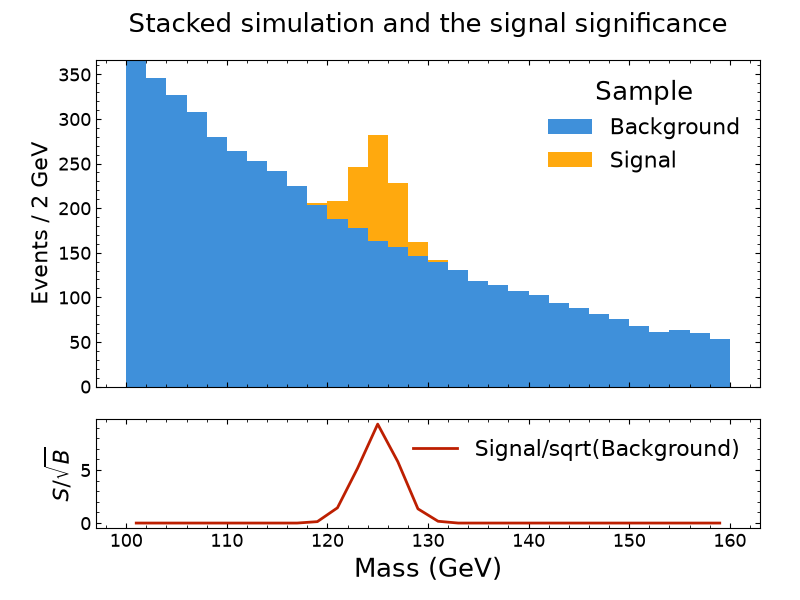
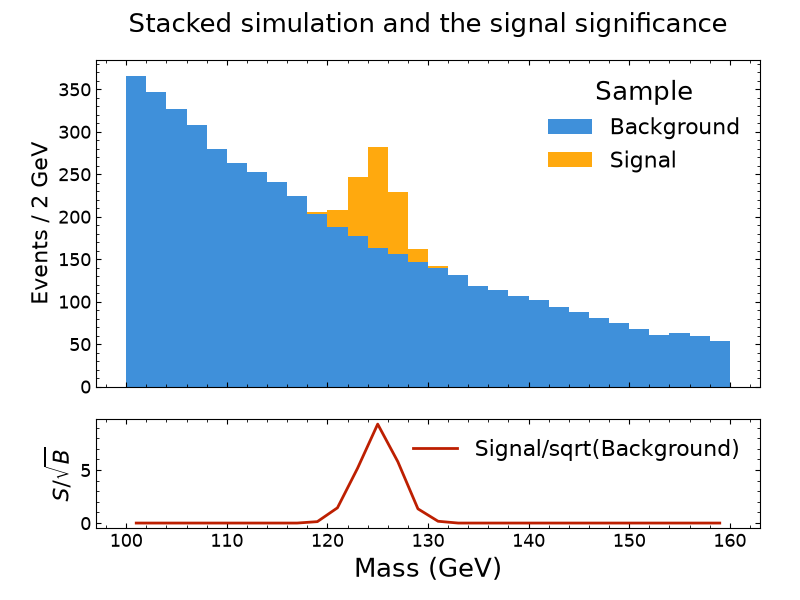
Stacked series as filled histograms; cat bar legends
- line --stacked over binned x draws filled histograms (bars with
  --bar_width or --plot_type bar, and over categories); the stacked legend
  is no longer pinned to the upper left, where a falling stack is tallest
- cat --kind bar: patch legend handles (opacity per --style value), error
  bars with --errory, legend placed clear of the data unless --legend_loc
- examples and docs: the S/sqrt(B) example no longer needs --bar_width auto

diff --git a/src/plotipus/kinds/cat.py b/src/plotipus/kinds/cat.py
@@ -11,6 +11,7 @@ by lines (line), bare points (point) or dodged bars (bar).
 """
 
 import matplotlib.lines as mlines
+import matplotlib.patches as mpatches
 import numpy as np
 from rich import print as rprint
 
@@ -20,7 +21,7 @@ from ..encodings import LINESTYLES
 from ..io import import_data, prepare_import
 from ..palettes import ColorAllocator
 from ..panels import add_title_and_note, create_panels, draw_horizontal_overlay, save
-from ..plot import apply_legend_style, plot_data
+from ..plot import apply_legend_style, apply_legend_style_clear_of_data, plot_data
 from ..selection import filter_dataframe
 from . import _base
 
@@ -123,8 +124,11 @@ def draw_figure(rows, args, kdx, comparable):
         # Hue values past the palette repeat a colour but keep their own marker.
         color = colors.color_for(hue)
         marker = MARKERS[idx % len(MARKERS)]
-        hue_handles.append(mlines.Line2D([], [], color=color, linestyle="-", marker=marker,
-                                         label=map_iterable_label(hue, args.iterable, args.iterable_mapping)))
+        hue_label = map_iterable_label(hue, args.iterable, args.iterable_mapping)
+        if args.kind == "bar":
+            hue_handles.append(mpatches.Patch(facecolor=color, alpha=0.9, label=hue_label))
+        else:
+            hue_handles.append(mlines.Line2D([], [], color=color, linestyle="-", marker=marker, label=hue_label))
         for cdx, value in enumerate(comparables):
             subset = rows[rows[args.iterable] == hue]
             if value is not None:
@@ -149,8 +153,9 @@ def draw_figure(rows, args, kdx, comparable):
                    + ", ".join(f"{categories[int(i)]}={v:.3g}" for i, v in zip(xs, ys)))
             if args.kind == "bar":
                 width = 0.8 / max(1, len(hues))
+                errors = np.nan_to_num(es) if args.errory and np.isfinite(es).any() else None
                 ax.bar(xs + (idx - (len(hues) - 1) / 2) * width, ys, width=width, color=color,
-                       alpha=0.9 if cdx == 0 else 0.5)
+                       alpha=0.9 if cdx == 0 else 0.5, yerr=errors, ecolor=style.role("ink"), capsize=3)
             else:
                 plot_type = "line" if args.kind == "line" else "scatter"
                 kwargs = {"marker": marker} if args.kind == "line" else {}
@@ -160,8 +165,13 @@ def draw_figure(rows, args, kdx, comparable):
                 else:
                     plot_data(args, ax, xs, y=ys, color=color, plot_type=plot_type, linestyle=linestyle, **kwargs)
             if value is not None and cdx >= len(style_handles):
-                style_handles.append(mlines.Line2D([], [], color=style.role("ink"), linestyle=linestyle,
-                                                   label=map_iterable_label(value, comparable, args.comparable_mapping)))
+                value_label = map_iterable_label(value, comparable, args.comparable_mapping)
+                if args.kind == "bar":  # bars tell --style values apart by opacity
+                    style_handles.append(mpatches.Patch(facecolor=style.role("ink"), alpha=0.9 if cdx == 0 else 0.5,
+                                                        label=value_label))
+                else:
+                    style_handles.append(mlines.Line2D([], [], color=style.role("ink"), linestyle=linestyle,
+                                                       label=value_label))
 
     ax.set_xticks(positions)
     ax.set_xticklabels([map_iterable_label(c, args.x, args.xtick_mapping) for c in categories],
@@ -188,7 +198,11 @@ def draw_figure(rows, args, kdx, comparable):
         title = args.comparable_title if args.comparable_title is not None else comparable
         handles.append(mlines.Line2D([], [], color="none", label=f"$\\bf{{{title}}}$" if title else ""))
         handles += style_handles
-    apply_legend_style(ax, handles=handles, capitalize_labels=args.capitalize_legend, loc=args.legend_loc or "lower left")
+    if args.legend_loc:
+        apply_legend_style(ax, handles=handles, capitalize_labels=args.capitalize_legend, loc=args.legend_loc)
+    else:
+        apply_legend_style_clear_of_data(ax, handles=handles, labels=[h.get_label() for h in handles],
+                                         capitalize_labels=args.capitalize_legend)
 
     add_title_and_note(fig, args)
     fig.subplots_adjust(bottom=0.22)

diff --git a/src/plotipus/kinds/line.py b/src/plotipus/kinds/line.py
@@ -183,7 +183,9 @@ def build_parser():
     add = group.add_argument
     add("--connect", action="store_true", default=False,
         help="Join the points: with steps without --plot_type, with lines for points with error bars.")
-    add("--stacked", action="store_true", default=False, help="Stack the series as bars.")
+    add("--stacked", action="store_true", default=False,
+        help="Stack the series: filled histograms over binned x, bars over categories, with --bar_width or "
+        "with --plot_type bar.")
     add("--data_hue", nargs="+", default=None, metavar="VALUE",
         help="Hue values drawn as data: points with error bars in the ink colour, first in the legend, never "
         "stacked. The other series are drawn as steps (bars with --stacked), with error bands with --errory, and "
@@ -191,7 +193,8 @@ def build_parser():
         "the values are configs, names or hue values.")
     add("--stack_reverse", action="store_true", default=False, help="Stack in reverse order (first series on top).")
     add("--bar_width", type=str, default=None,
-        help="Width of stacked bars: a number, or 'auto' for the x spacing without edges (default 0.8).")
+        help="Stack as bars of this width: a number, or 'auto' for the x spacing without edges (default: "
+        "filled histograms over binned x, bars of width 0.8 over categories).")
     add("--dodge", type=float, default=0.0,
         help="With --plot_type errorbar: shift each hue value sideways by this amount.")
     add("--step_open", action="store_true", default=False,
@@ -491,8 +494,9 @@ def draw_series(ax, s, args, plot_type=None, stack_bottom=None, dodge_shift=0.0)
         fill = {"fill_alpha": s.fill_alpha, "fill_hatch": s.fill_hatch, "fill_hatch_color": args.fill_hatch_color}
     linestyle = s.linestyle if s.linestyle is not None else args.plot_style
 
-    if args.stacked and stack_bottom is not None and args.data_hue and plot_type is None and s.x_edges is not None:
-        # Against data, the simulation stacks as filled histograms.
+    if (args.stacked and stack_bottom is not None and plot_type is None and args.bar_width is None
+            and s.x_edges is not None and not s.categorical):
+        # Binned series stack as filled histograms (bars with --bar_width or --plot_type bar).
         bottom = np.array(stack_bottom, dtype=float)  # a copy: the running stack grows in place
         ax.stairs(bottom + np.asarray(s.y, dtype=float), s.x_edges, baseline=bottom, fill=True, **common)
         return
@@ -1111,9 +1115,7 @@ def _finish_upper(fig, upper, lower, drawn, rows, args, variables, last_x, hue_v
             for label, color in extrapolated_axes.get(ax, []):
                 handles.append(mlines.Line2D([], [], color=color, linestyle=EXTRAPOLATED_LINESTYLE, linewidth=1))
                 labels.append(f"{label} Extrapolated")
-            loc = {}
-            if args.stacked and not args.data_hue:
-                loc = {"loc": args.legend_loc} if args.legend_loc else {"loc": "upper left", "bbox_to_anchor": (0, 1)}
+            loc = {"loc": args.legend_loc} if args.stacked and args.legend_loc else {}
             draw_legends(ax, args, primary_title, handles, labels, secondary_title, secondary_style_map,
                          secondary_alpha_map, selection=selection, **loc)
 

diff --git a/docs/design/styles/render.py b/docs/design/styles/render.py
@@ -31,7 +31,7 @@ CANDIDATES = ["paper", "open", "hep"]
 COMMANDS = {
     "01_hue_style": "line --datafile Distributions -x Bin -y Counts --hue Distribution --style Sample --select Distribution -s Exponential Landau Chi-squared --plot_type step --labelx x",
     "02_ratio": "line --datafile Distributions -x Bin -y Counts --hue Sample --select Distribution -s Landau --plot_type step --lower ratio --reference_value Simulation --labelx x --lower_labely 'Data / Sim.'",
-    "03_stacked_significance": "line --datafile Distributions -x Bin -y Counts --hue Sample --select Distribution Sample -s Resonance Background Signal --stacked --bar_width auto --lower group --reference_group Signal --other_group Background --group_significance --lower_labely '$S/\\sqrt{B}$' --labelx 'Mass (GeV)'",
+    "03_stacked_significance": "line --datafile Distributions -x Bin -y Counts --hue Sample --select Distribution Sample -s Resonance Background Signal --stacked --lower group --reference_group Signal --other_group Background --group_significance --lower_labely '$S/\\sqrt{B}$' --labelx 'Mass (GeV)'",
     "04_data_stack": "line --datafile Distributions -x Bin -y Counts --hue Sample --select Distribution -s Resonance --data_hue Data --stacked --errory --lower ratio --labelx 'Mass (GeV)'",
     "05_binned_std": "line --datafile Distributions -x Value -y Residual --binned --estimator std --hue Sample --select Distribution -s Exponential --bins 11 --rangex 0 10",
     "06_hist2d": "map --datafile Distributions -x Value -y Smeared --select Distribution -s Exponential --iterable Sample --diagonal --logz",

diff --git a/tests/test_cat.py b/tests/test_cat.py
@@ -42,3 +42,20 @@ def test_cat_legacy_translation():
     kind, args = translate(["scripts/script_compare_integral.py", "--datafile", "D", "-x", "S", "-y", "C", "-i", "K",
                             "--plot_type", "scatter"])
     assert kind == "cat" and args[args.index("--kind") + 1] == "point"
+
+
+def test_bar_legend_shows_patches(make_project):
+    """--kind bar: the legend shows filled patches, not line-and-marker handles."""
+    from matplotlib.patches import Patch
+
+    from plotipus import registry
+
+    x = np.arange(0.5, 5, 1.0)
+    frame = pd.DataFrame([{"Stage": stage, "Sample": sample, "Counts": k * np.ones_like(x), "Energy": x}
+                          for stage in ("Raw", "Cut") for k, sample in ((1, "A"), (2, "B"))])
+    figures = []
+    registry.add_figure_hook(lambda fig, args: figures.append(fig))
+    make_project({"Spectra": frame})
+    cat.main(["--datafile", "Spectra", "-x", "Stage", "-y", "Counts", "--hue", "Sample", "--kind", "bar"])
+    handles = figures[-1].axes[0].get_legend().legend_handles
+    assert len(handles) == 2 and all(isinstance(h, Patch) for h in handles)

diff --git a/tests/test_line.py b/tests/test_line.py
@@ -371,3 +371,16 @@ def test_stack_error_style(make_project, tmp_path):
     (band,) = [p for p in ax.patches if isinstance(p, StepPatch) and not p.get_fill()]
     assert band.get_label() == "MC stat." and band.get_hatch() == "xx"
     assert to_hex(band.get_edgecolor()) == "#ff0000"
+
+
+def test_stacked_binned_series_are_filled_histograms(make_project, spectra):
+    """--stacked over binned x stacks filled steps; --bar_width keeps bars."""
+    from matplotlib.patches import Rectangle, StepPatch
+
+    figures = _capture()
+    run(make_project, spectra, "--hue", "Sample", "--select", "Stage", "-s", "Raw", "--stacked")
+    patches = figures[-1].axes[0].patches
+    filled = [p for p in patches if isinstance(p, StepPatch) and p.get_fill()]
+    assert len(filled) == 3 and np.allclose(filled[1].get_data().baseline, spectra["Counts"].iloc[0])
+    run(make_project, spectra, "--hue", "Sample", "--select", "Stage", "-s", "Raw", "--stacked", "--bar_width", "auto")
+    assert any(isinstance(p, Rectangle) for p in figures[-1].axes[0].patches)

diff --git a/docs/options.md b/docs/options.md
@@ -138,7 +138,7 @@ derived from (or stored in) the same DataFrame. Each `--lower` adds one:
 ![Stacked background and signal simulation with the signal significance S/sqrt(B) in a lower panel](images/options/significance.png)
 
 ```bash
-plotipus line --datafile Distributions -x Bin -y Counts --hue Sample --select Distribution Sample -s Resonance Background Signal --stacked --bar_width auto --legend_loc 'upper right' --lower group --reference_group Signal --other_group Background --group_significance --lower_labely '$S/\sqrt{B}$' --labelx 'Mass (GeV)' --labely 'Events / 2 GeV' --title 'Stacked simulation and the signal significance'
+plotipus line --datafile Distributions -x Bin -y Counts --hue Sample --select Distribution Sample -s Resonance Background Signal --stacked --lower group --reference_group Signal --other_group Background --group_significance --lower_labely '$S/\sqrt{B}$' --labelx 'Mass (GeV)' --labely 'Events / 2 GeV' --title 'Stacked simulation and the signal significance'
 ```
 
 ![Landau data and simulation with their ratio in a lower panel](images/options/ratio.png)
